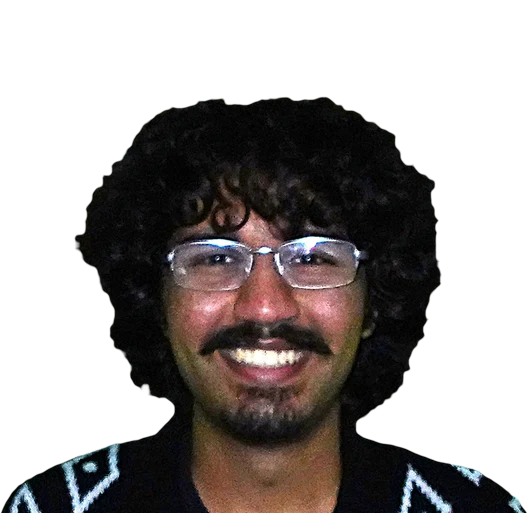
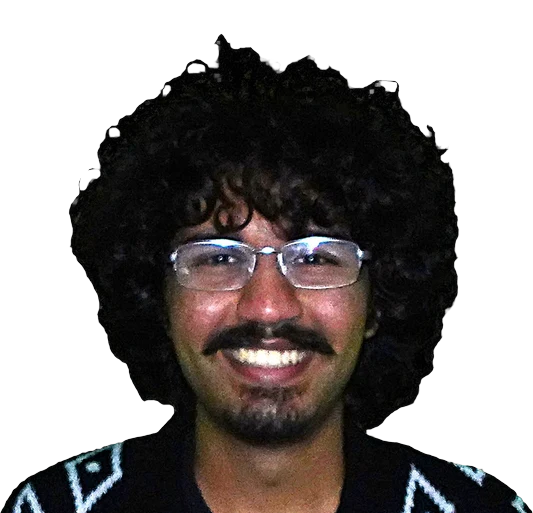
Team: Hadi Jafri (spelling), his curls kept in the cut-out, his file entries from his bio
Claude-Session: https://claude.ai/code/session_015HsWK3J51QiDdfrAUgvUwV

diff --git a/lib/team.ts b/lib/team.ts
@@ -49,12 +49,14 @@ export const team: Member[] = [
   },
   {
     id: "hadi",
-    name: "Hadi Jafry",
+    name: "Hadi Jafri",
     role: "editor. writer. socials.",
     expertise: ["physics", "geology", "geography"],
     degree: ["BSc in Interdisciplinary Science"],
     bio: [
       ["ASSIGNMENT", "Physics and geography"],
+      ["POST", "Socials. Questions welcome."],
+      ["COLLECTION", "Plant fossils, the oldest 380 million years old"],
       ["COVER JOB", "TELUS Spark"],
     ],
     idNumber: "238516",

diff --git a/lib/pitch.ts b/lib/pitch.ts
@@ -64,7 +64,7 @@ export const storyTypes: StoryType[] = [
 /** The editors and what they look after (from the PRD's team intros). */
 export const editors = {
   sarah: { name: "Sarah Hewitt", role: "Editor in Chief" },
-  hadi: { name: "Hadi Jafry", role: "Editor" },
+  hadi: { name: "Hadi Jafri", role: "Editor" },
   liam: { name: "Liam Rockliffe", role: "Editor" },
   qanita: { name: "Qanita Farrukh", role: "Editor" },
 } as const;
